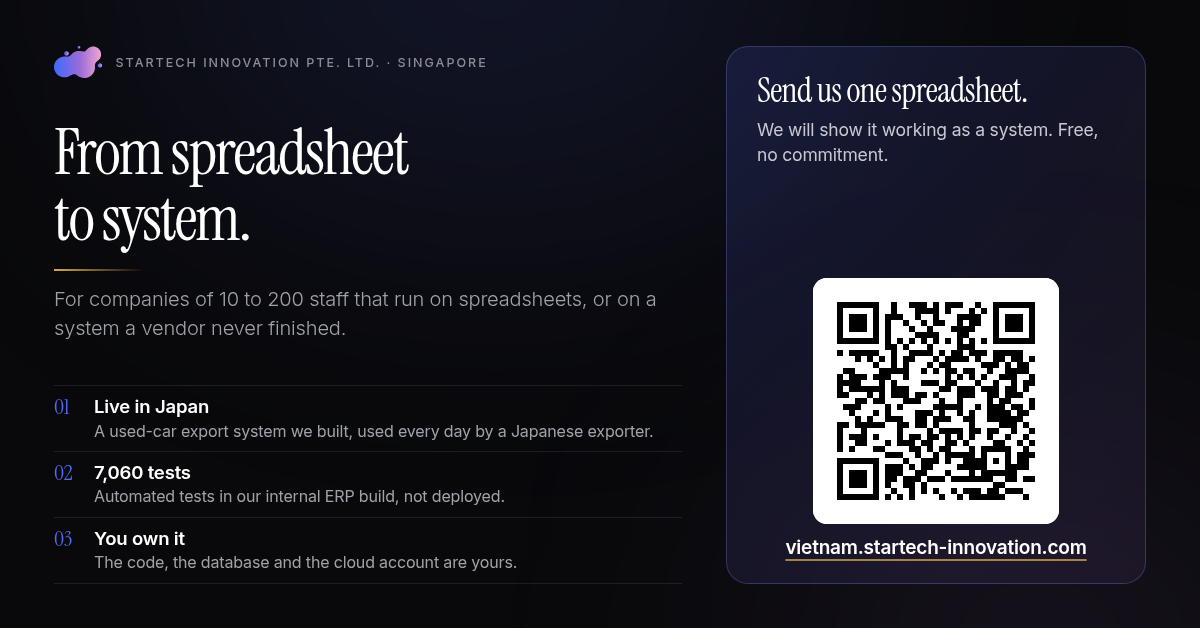
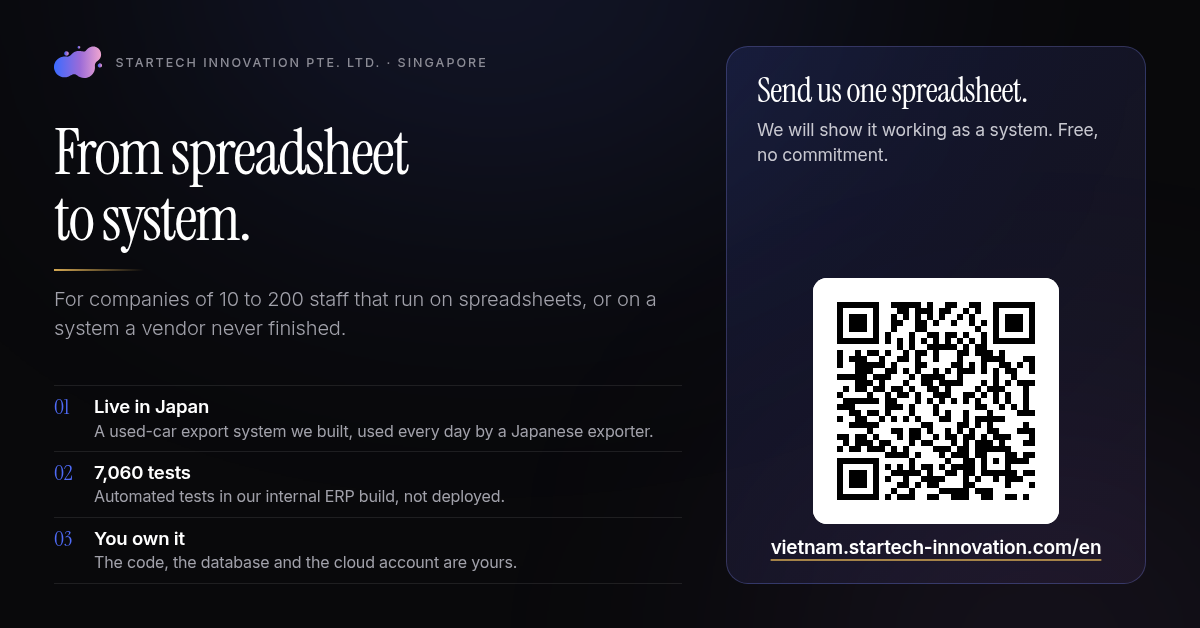
Flyers: English Thailand and Vietnam flyers point to /en (those sites serve Japanese at /)
Claude-Session: https://claude.ai/code/session_01C2W89Ghqtdygsvg3wQ69CJ

Changed region(s): [[0.6783, 0.4841, 0.8633, 0.8169], [0.6475, 0.8471, 0.925, 0.9076]]

diff --git a/brand/flyers/html/flyer-thailand-en-portrait.html b/brand/flyers/html/flyer-thailand-en-portrait.html
@@ -135,7 +135,7 @@ html[lang=ja].landscape .cta h2 { font-size:26px; }
   <div class="sp"></div>
   <ol class="proof"><li><div class="i">01</div><div><div class="t">Live in Japan</div><div class="d">A used-car export system we built, used every day by a Japanese exporter.</div></div></li><li><div class="i">02</div><div><div class="t">7,060 tests</div><div class="d">Automated tests in our internal ERP build, not deployed.</div></div></li><li><div class="i">03</div><div><div class="t">You own it</div><div class="d">The code, the database and the cloud account are yours.</div></div></li></ol>
   <div class="sp"></div>
-  <div class="cta"><div class="txt"><h2>Send us one spreadsheet.</h2><p>We will show it working as a system. Free, no commitment.</p><div class="link">thailand.startech-innovation.com</div></div><div class="qr"><img src="../qr/thailand-en.svg" width="246" height="246" alt="QR code: thailand.startech-innovation.com"></div></div>
+  <div class="cta"><div class="txt"><h2>Send us one spreadsheet.</h2><p>We will show it working as a system. Free, no commitment.</p><div class="link">thailand.startech-innovation.com/en</div></div><div class="qr"><img src="../qr/thailand-en.svg" width="246" height="246" alt="QR code: thailand.startech-innovation.com/en"></div></div>
 </div>
 </div>
 <script>

diff --git a/brand/flyers/html/flyer-vietnam-en-portrait.html b/brand/flyers/html/flyer-vietnam-en-portrait.html
@@ -135,7 +135,7 @@ html[lang=ja].landscape .cta h2 { font-size:26px; }
   <div class="sp"></div>
   <ol class="proof"><li><div class="i">01</div><div><div class="t">Live in Japan</div><div class="d">A used-car export system we built, used every day by a Japanese exporter.</div></div></li><li><div class="i">02</div><div><div class="t">7,060 tests</div><div class="d">Automated tests in our internal ERP build, not deployed.</div></div></li><li><div class="i">03</div><div><div class="t">You own it</div><div class="d">The code, the database and the cloud account are yours.</div></div></li></ol>
   <div class="sp"></div>
-  <div class="cta"><div class="txt"><h2>Send us one spreadsheet.</h2><p>We will show it working as a system. Free, no commitment.</p><div class="link">vietnam.startech-innovation.com</div></div><div class="qr"><img src="../qr/vietnam-en.svg" width="246" height="246" alt="QR code: vietnam.startech-innovation.com"></div></div>
+  <div class="cta"><div class="txt"><h2>Send us one spreadsheet.</h2><p>We will show it working as a system. Free, no commitment.</p><div class="link">vietnam.startech-innovation.com/en</div></div><div class="qr"><img src="../qr/vietnam-en.svg" width="246" height="246" alt="QR code: vietnam.startech-innovation.com/en"></div></div>
 </div>
 </div>
 <script>

diff --git a/brand/flyers/html/flyer-thailand-en-landscape.html b/brand/flyers/html/flyer-thailand-en-landscape.html
@@ -136,7 +136,7 @@ html[lang=ja].landscape .cta h2 { font-size:26px; }
     <div class="sp"></div>
     <ol class="proof"><li><div class="i">01</div><div><div class="t">Live in Japan</div><div class="d">A used-car export system we built, used every day by a Japanese exporter.</div></div></li><li><div class="i">02</div><div><div class="t">7,060 tests</div><div class="d">Automated tests in our internal ERP build, not deployed.</div></div></li><li><div class="i">03</div><div><div class="t">You own it</div><div class="d">The code, the database and the cloud account are yours.</div></div></li></ol>
   </div>
-  <div class="cta"><h2>Send us one spreadsheet.</h2><p>We will show it working as a system. Free, no commitment.</p><div class="qr"><img src="../qr/thailand-en.svg" width="246" height="246" alt="QR code: thailand.startech-innovation.com"></div><div class="link">thailand.startech-innovation.com</div></div>
+  <div class="cta"><h2>Send us one spreadsheet.</h2><p>We will show it working as a system. Free, no commitment.</p><div class="qr"><img src="../qr/thailand-en.svg" width="246" height="246" alt="QR code: thailand.startech-innovation.com/en"></div><div class="link">thailand.startech-innovation.com/en</div></div>
 </div>
 </div>
 <script>

diff --git a/brand/flyers/html/flyer-vietnam-en-landscape.html b/brand/flyers/html/flyer-vietnam-en-landscape.html
@@ -136,7 +136,7 @@ html[lang=ja].landscape .cta h2 { font-size:26px; }
     <div class="sp"></div>
     <ol class="proof"><li><div class="i">01</div><div><div class="t">Live in Japan</div><div class="d">A used-car export system we built, used every day by a Japanese exporter.</div></div></li><li><div class="i">02</div><div><div class="t">7,060 tests</div><div class="d">Automated tests in our internal ERP build, not deployed.</div></div></li><li><div class="i">03</div><div><div class="t">You own it</div><div class="d">The code, the database and the cloud account are yours.</div></div></li></ol>
   </div>
-  <div class="cta"><h2>Send us one spreadsheet.</h2><p>We will show it working as a system. Free, no commitment.</p><div class="qr"><img src="../qr/vietnam-en.svg" width="246" height="246" alt="QR code: vietnam.startech-innovation.com"></div><div class="link">vietnam.startech-innovation.com</div></div>
+  <div class="cta"><h2>Send us one spreadsheet.</h2><p>We will show it working as a system. Free, no commitment.</p><div class="qr"><img src="../qr/vietnam-en.svg" width="246" height="246" alt="QR code: vietnam.startech-innovation.com/en"></div><div class="link">vietnam.startech-innovation.com/en</div></div>
 </div>
 </div>
 <script>

diff --git a/brand/flyers/flyer_content.py b/brand/flyers/flyer_content.py
@@ -102,20 +102,24 @@ ID = {
 }
 
 
-def country_site(base, country):
-    """The base copy with the link and QR code of <country>'s own site."""
+def country_site(base, country, path=""):
+    """The base copy with the link and QR code of <country>'s own site.
+
+    `path` is the locale prefix where the site's default language is not the
+    flyer's: Thailand and Vietnam serve Japanese at / and English at /en.
+    """
     host = f"{country}.startech-innovation.com"
-    return {**base, "name": f"{country}-{base['lang']}", "link": host,
-            "qr": f"https://{host}/?utm_source=qr"}
+    return {**base, "name": f"{country}-{base['lang']}", "link": f"{host}{path}",
+            "qr": f"https://{host}{path or '/'}?utm_source=qr"}
 
 
 COUNTRY_FLYERS = (
     country_site(EN, "malaysia"),
     country_site(EN, "philippines"),
     country_site(JA, "thailand"),
-    country_site(EN, "thailand"),
+    country_site(EN, "thailand", "/en"),
     country_site(JA, "vietnam"),
-    country_site(EN, "vietnam"),
+    country_site(EN, "vietnam", "/en"),
 )
 
 FLYERS = (EN, JA, ID, *COUNTRY_FLYERS)
